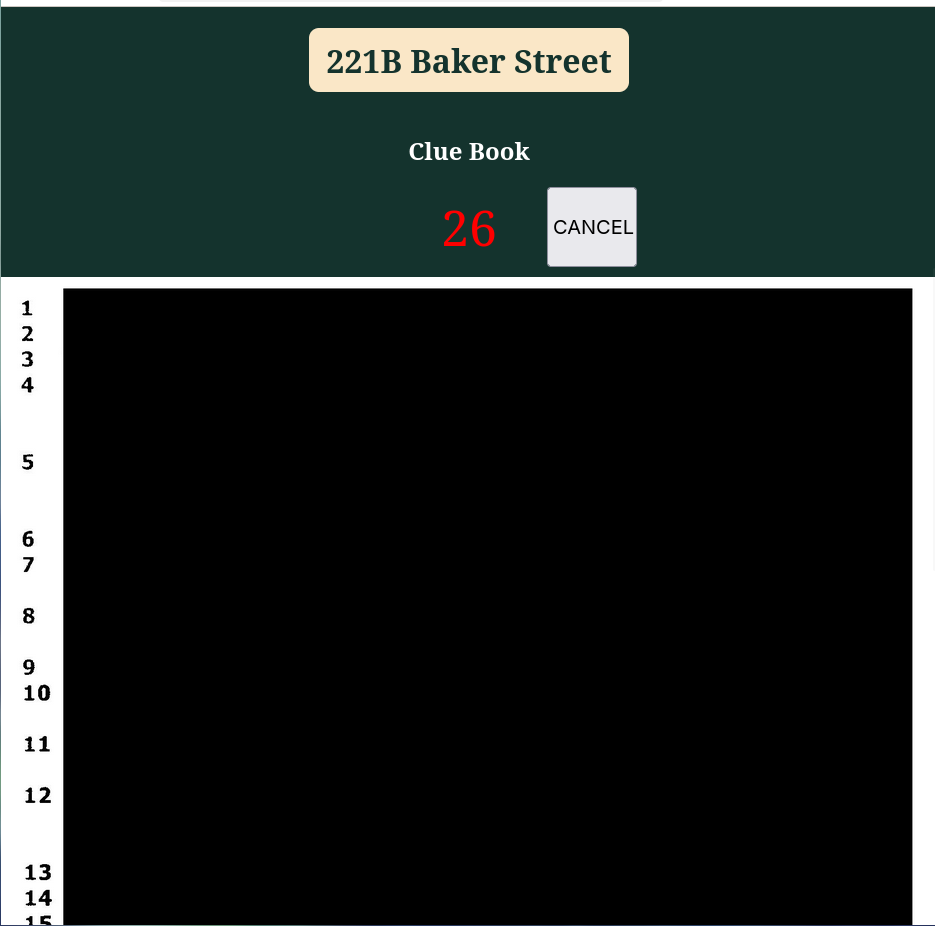
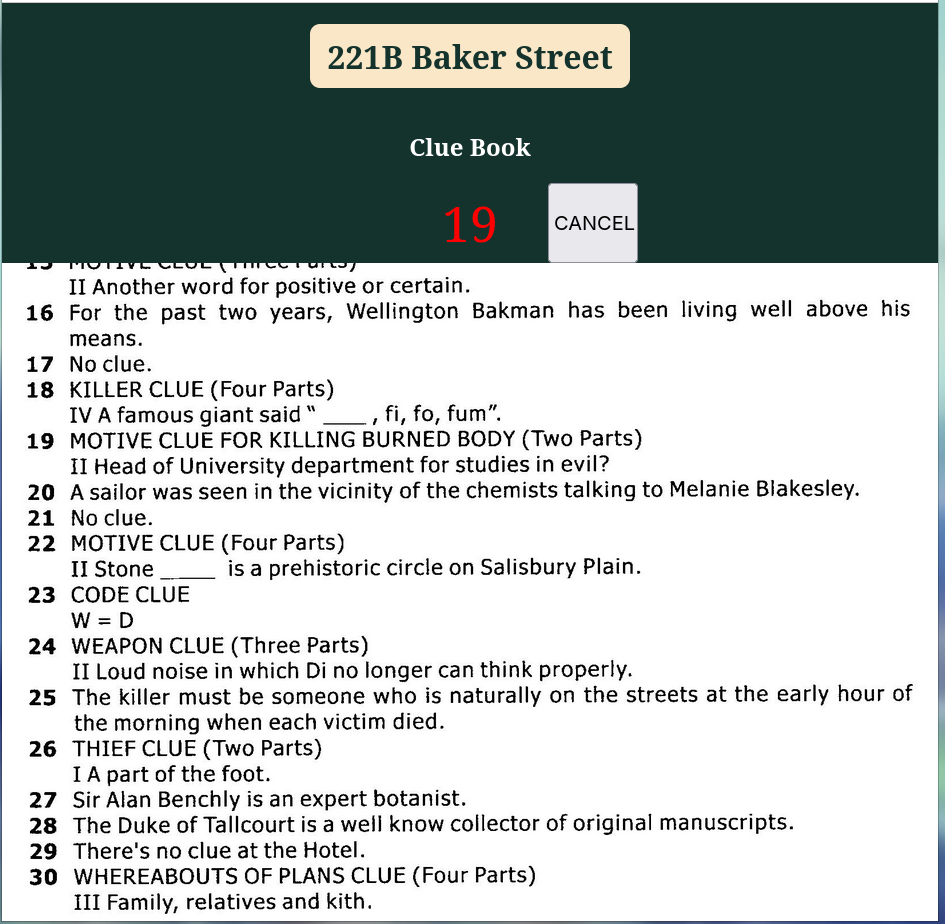
Unredact example clue page

diff --git a/README.md b/README.md
@@ -75,8 +75,6 @@ After entering a valid clue number and pressing the submit button, you will be g
 
 ![clue page image](images/clue_page.jpg)
 
-The clue page has been redacted, that's why it looks mostly black.
-
 In this page, an audio file will be played while the timer counts down. The red text is the count down timer. 
 
 
